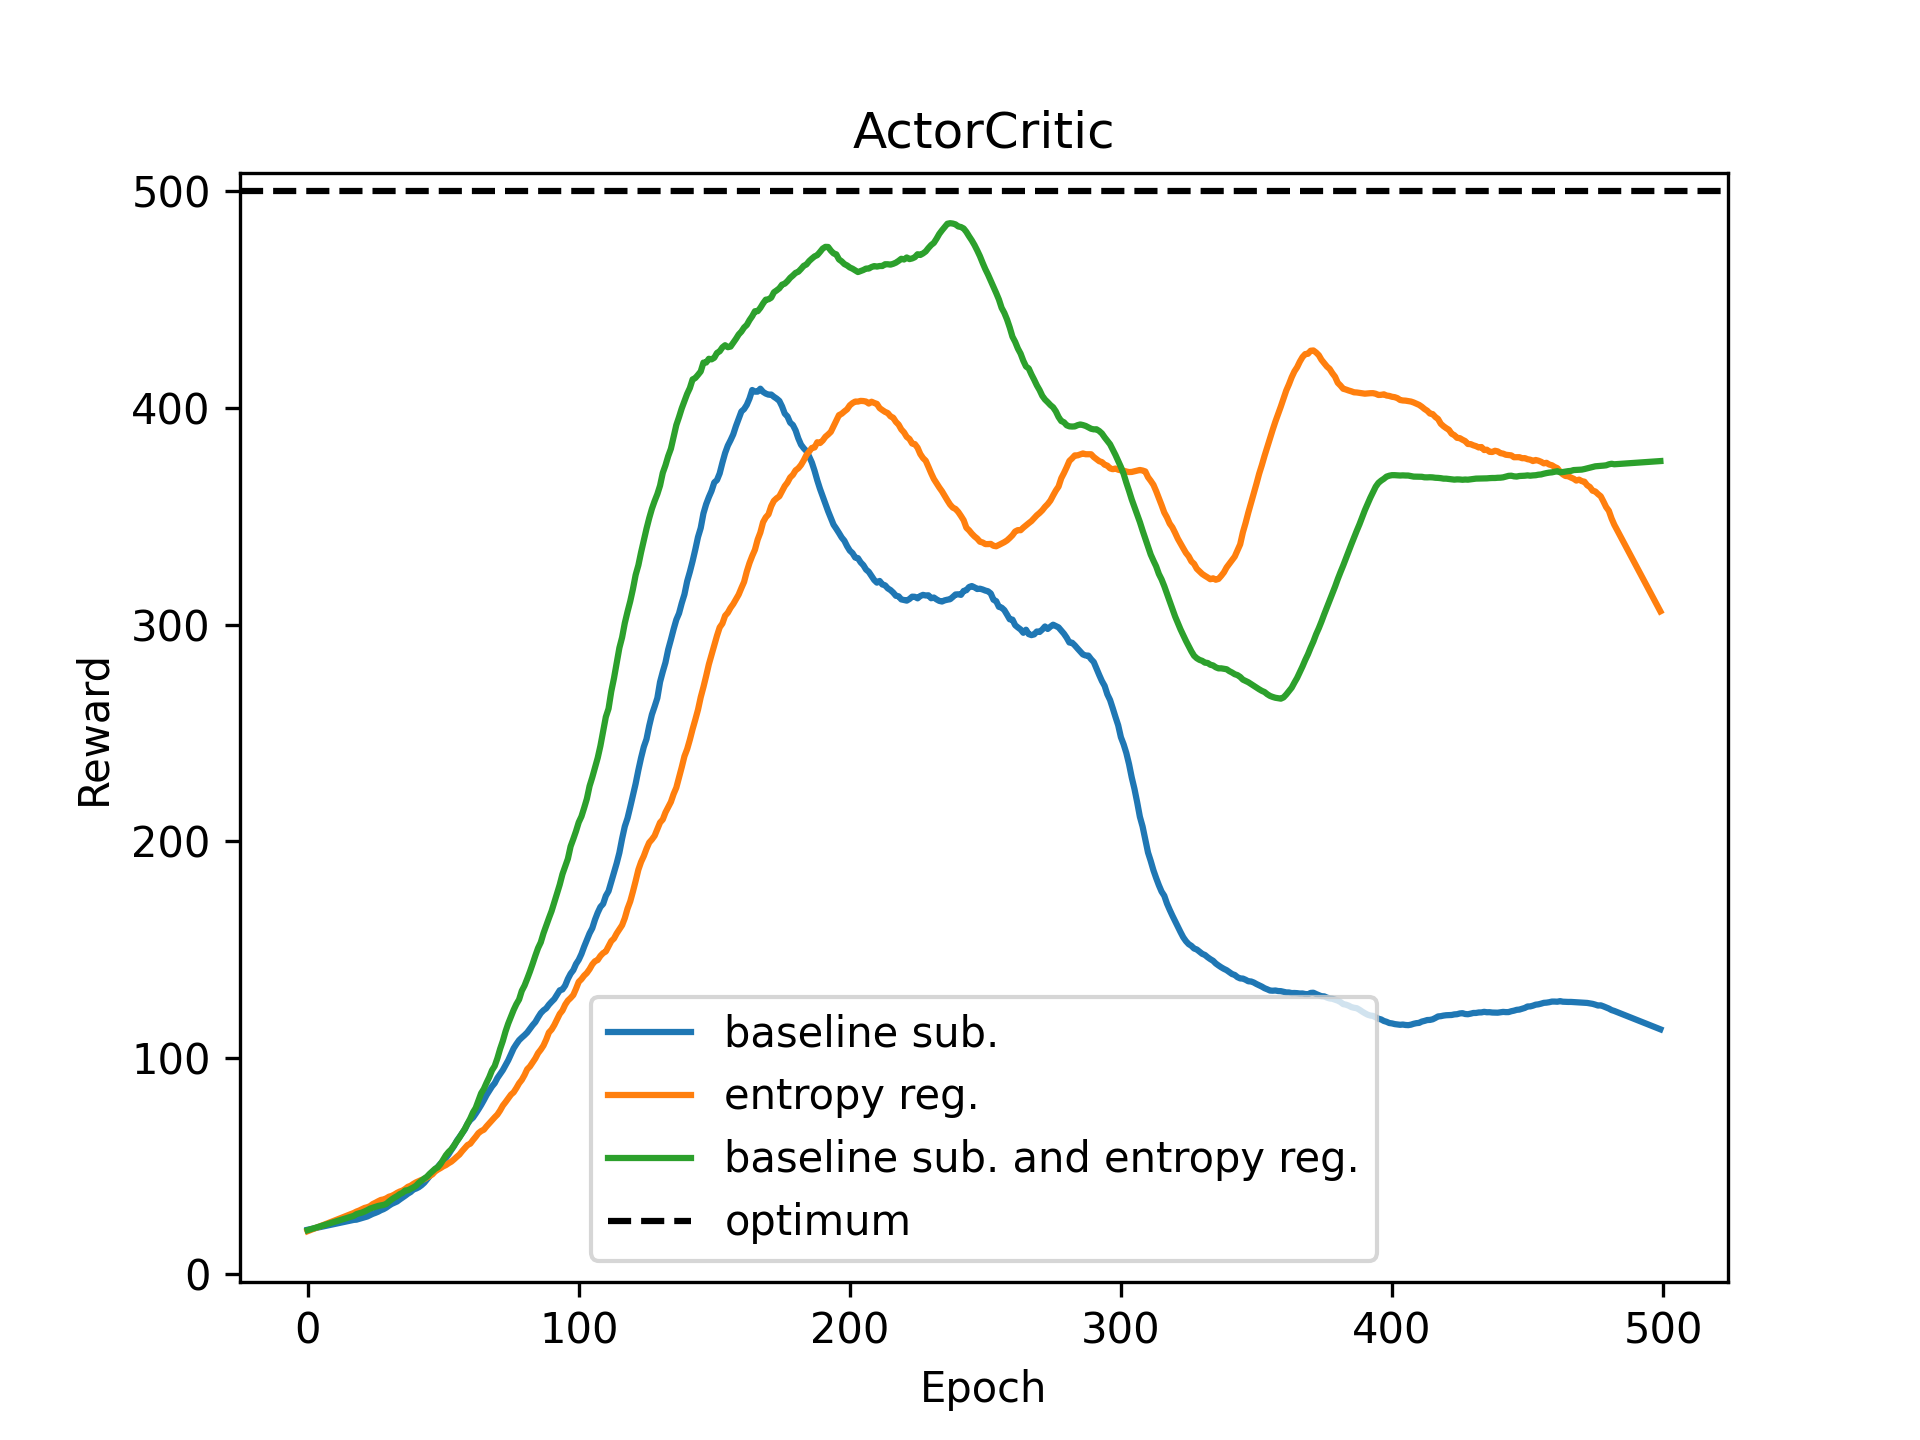
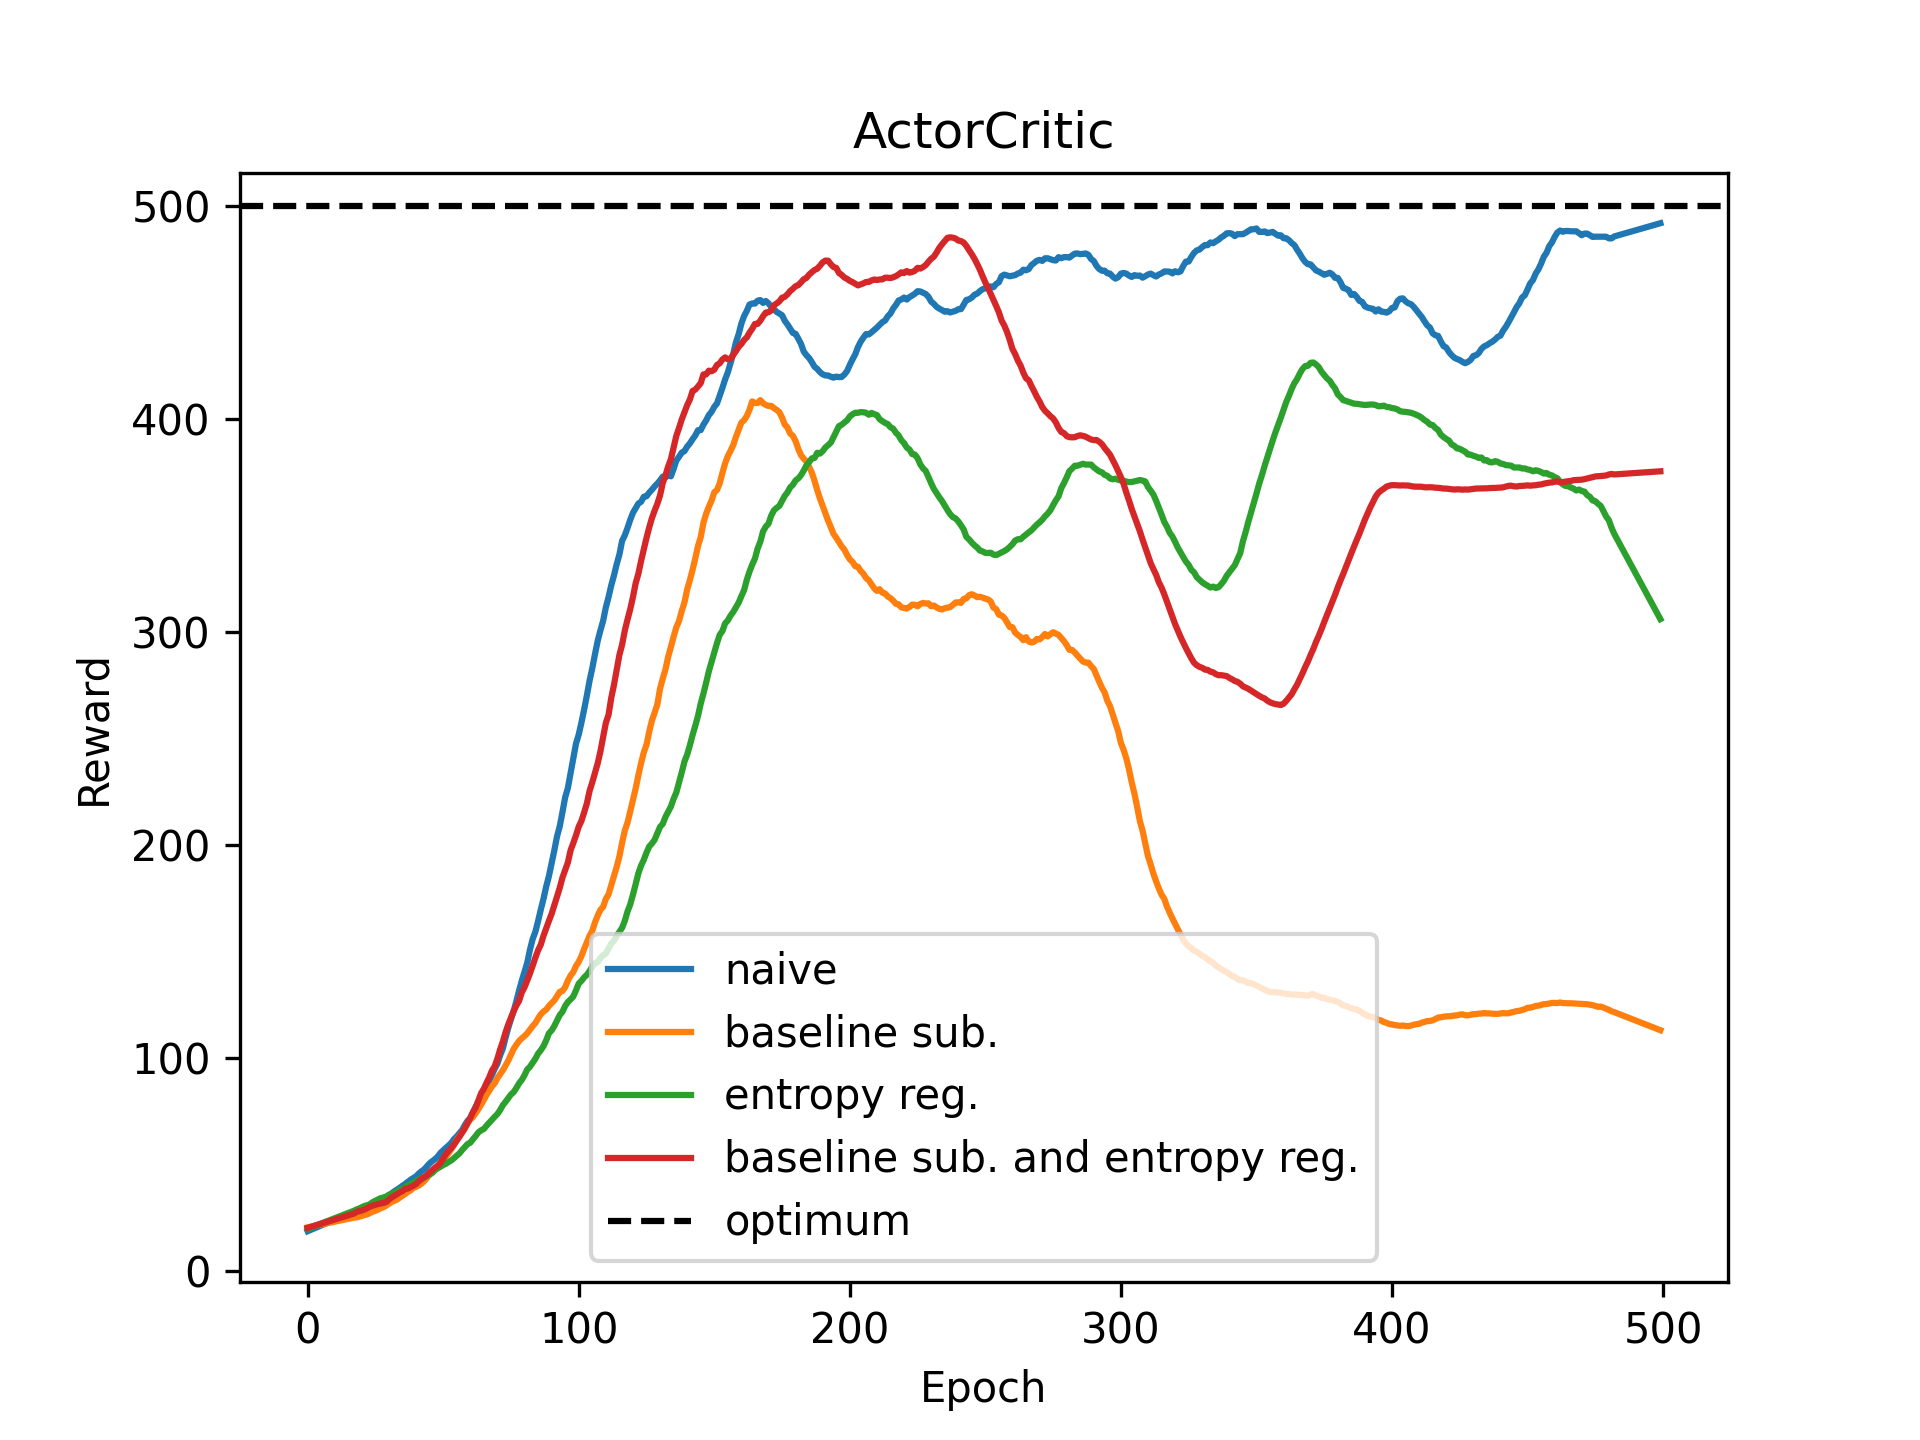
experiments

diff --git a/make_plot.py b/make_plot.py
@@ -6,7 +6,7 @@ plot_title = "ActorCritic"
 
 optimum = 500
 repetitions = 3
-run_names = [("ac_baseline", "baseline sub."), ("ac_entropy", "entropy reg."), ("ac_baseline_entropy", "baseline sub. and entropy reg.")]
+run_names = [("ac_n250", "naive"), ("ac_baseline", "baseline sub."), ("ac_entropy", "entropy reg."), ("ac_baseline_entropy", "baseline sub. and entropy reg.")]
 
 plot = LearningCurvePlot(title = plot_title)
 
